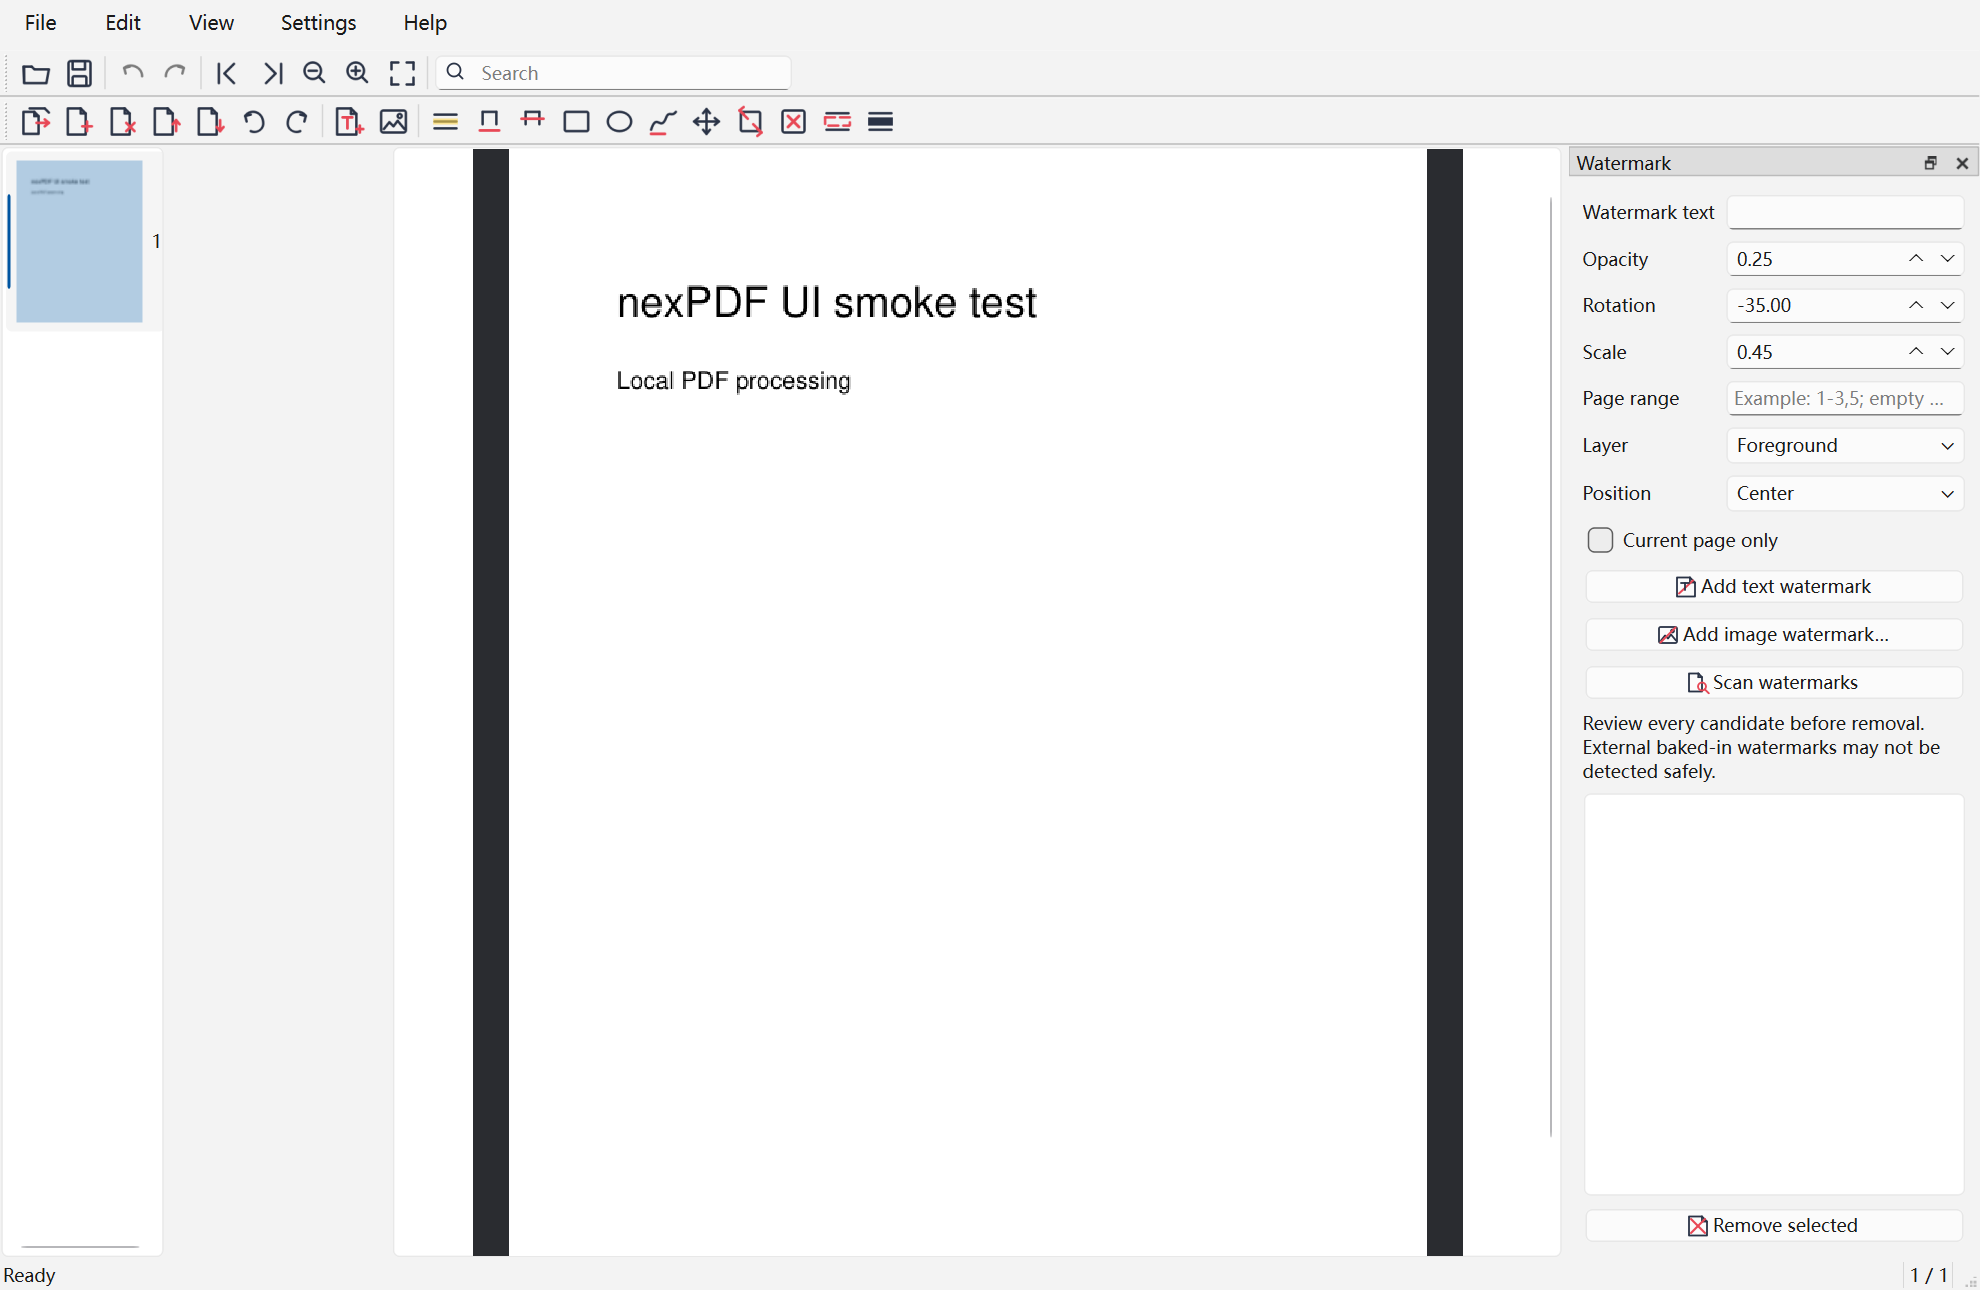
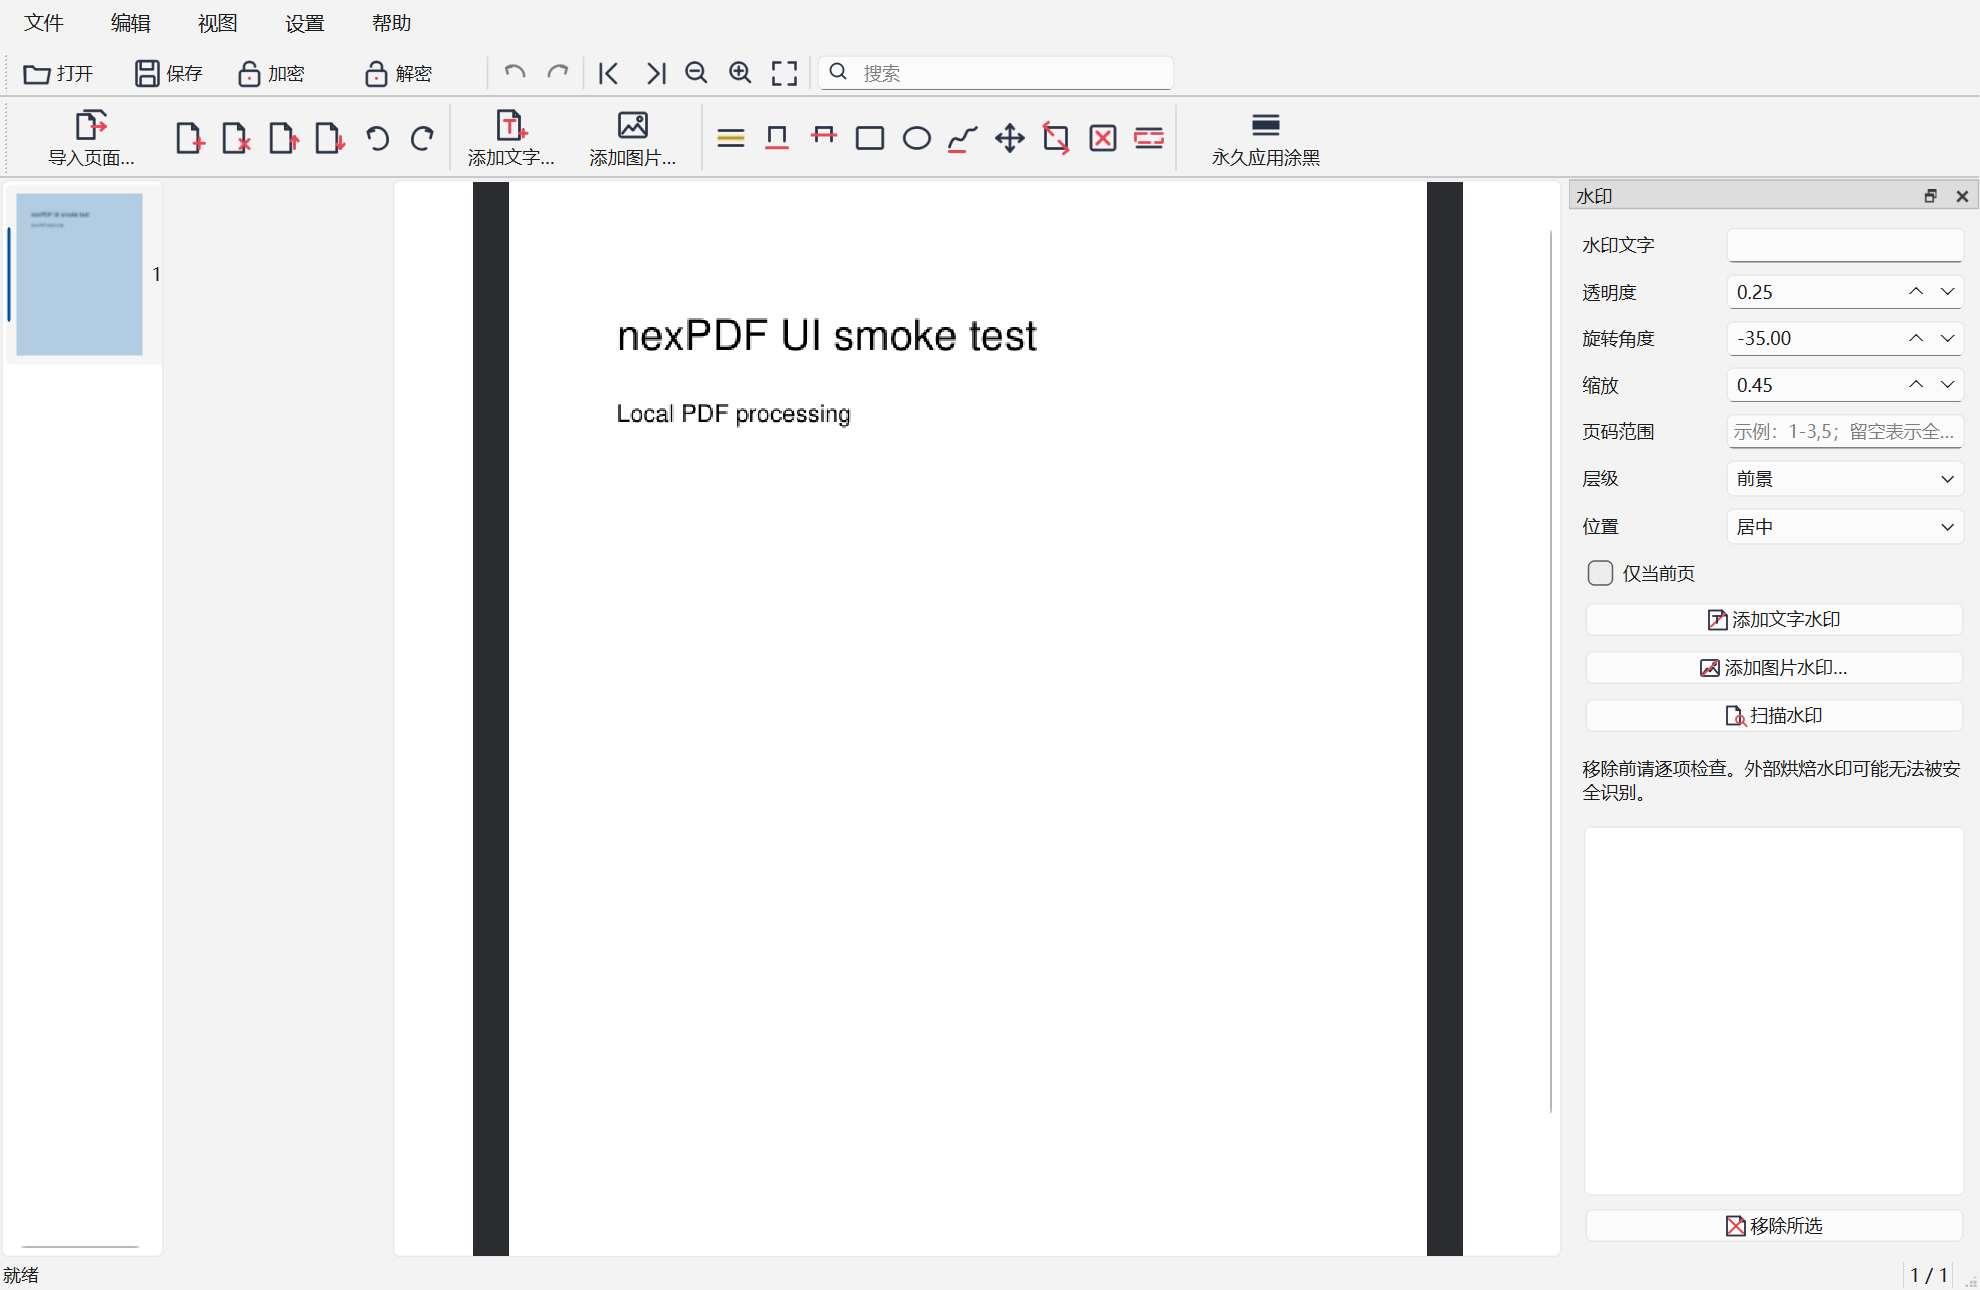
fix(ui): 调整为图标文字混合工具栏

diff --git a/app/main_window.cpp b/app/main_window.cpp
@@ -41,6 +41,7 @@
 #include <QSplitter>
 #include <QStatusBar>
 #include <QToolBar>
+#include <QToolButton>
 #include <QTimer>
 #include <QVBoxLayout>
 
@@ -540,7 +541,20 @@ void MainWindow::buildMenus()
     toolbar->setObjectName(QStringLiteral("mainToolbar"));
     toolbar->setIconSize(QSize(22, 22));
     toolbar->setToolButtonStyle(Qt::ToolButtonIconOnly);
-    toolbar->addActions({openAction_, saveAsAction_});
+    const auto addLabeledAction = [](QToolBar *target, QAction *action,
+                                     const QString &objectName, const Qt::ToolButtonStyle style) {
+        auto *button = new QToolButton(target);
+        button->setObjectName(objectName);
+        button->setDefaultAction(action);
+        button->setToolButtonStyle(style);
+        button->setAutoRaise(true);
+        target->addWidget(button);
+        return button;
+    };
+    addLabeledAction(toolbar, openAction_, QStringLiteral("openToolButton"), Qt::ToolButtonTextBesideIcon);
+    addLabeledAction(toolbar, saveAsAction_, QStringLiteral("saveAsToolButton"), Qt::ToolButtonTextBesideIcon);
+    addLabeledAction(toolbar, encryptAction_, QStringLiteral("encryptToolButton"), Qt::ToolButtonTextBesideIcon);
+    addLabeledAction(toolbar, decryptAction_, QStringLiteral("decryptToolButton"), Qt::ToolButtonTextBesideIcon);
     toolbar->addSeparator();
     toolbar->addActions({undoAction_, redoAction_});
     toolbar->addSeparator();
@@ -556,16 +570,24 @@ void MainWindow::buildMenus()
     addToolBarBreak(Qt::TopToolBarArea);
     auto *editToolbar = addToolBar(QStringLiteral("edit"));
     editToolbar->setObjectName(QStringLiteral("editToolbar"));
-    editToolbar->setIconSize(QSize(22, 22));
+    editToolbar->setIconSize(QSize(24, 24));
     editToolbar->setToolButtonStyle(Qt::ToolButtonIconOnly);
-    editToolbar->addActions({importPagesAction_, insertPageAction_, deletePageAction_,
-                             movePageUpAction_, movePageDownAction_, rotateLeftAction_, rotateRightAction_});
+    addLabeledAction(editToolbar, importPagesAction_, QStringLiteral("importPagesToolButton"),
+                     Qt::ToolButtonTextUnderIcon);
+    editToolbar->addActions({insertPageAction_, deletePageAction_, movePageUpAction_, movePageDownAction_,
+                             rotateLeftAction_, rotateRightAction_});
     editToolbar->addSeparator();
-    editToolbar->addActions({addTextAction_, addImageAction_});
+    addLabeledAction(editToolbar, addTextAction_, QStringLiteral("addTextToolButton"),
+                     Qt::ToolButtonTextUnderIcon);
+    addLabeledAction(editToolbar, addImageAction_, QStringLiteral("addImageToolButton"),
+                     Qt::ToolButtonTextUnderIcon);
     editToolbar->addSeparator();
     editToolbar->addActions({highlightAction_, underlineAction_, strikeOutAction_, rectangleAction_,
                              ellipseAction_, inkAction_, moveObjectAction_, resizeObjectAction_,
-                             deleteObjectAction_, redactionPreviewAction_, applyRedactionsAction_});
+                             deleteObjectAction_, redactionPreviewAction_});
+    editToolbar->addSeparator();
+    addLabeledAction(editToolbar, applyRedactionsAction_, QStringLiteral("applyRedactionsToolButton"),
+                     Qt::ToolButtonTextUnderIcon);
 
     retranslateUi();
 }
@@ -720,6 +742,20 @@ void MainWindow::retranslateUi()
     }
     if (QToolBar *toolbar = findChild<QToolBar *>(QStringLiteral("editToolbar"))) {
         toolbar->setWindowTitle(tr("Edit toolbar"));
+    }
+    const QList<QPair<QString, QString>> compactLabels = {
+        {QStringLiteral("openToolButton"), tr("Open")},
+        {QStringLiteral("saveAsToolButton"), tr("Save")},
+        {QStringLiteral("encryptToolButton"), tr("Encrypt")},
+        {QStringLiteral("decryptToolButton"), tr("Decrypt")}
+    };
+    for (const auto &[objectName, label] : compactLabels) {
+        if (QToolButton *button = findChild<QToolButton *>(objectName)) button->setText(label);
+    }
+    if (statusLabel_ != nullptr
+        && (statusLabel_->text() == QStringLiteral("Ready")
+            || statusLabel_->text() == QStringLiteral("就绪"))) {
+        statusLabel_->setText(tr("Ready"));
     }
     if (watermarkDock_ != nullptr) {
         watermarkDock_->setWindowTitle(tr("Watermark"));

diff --git a/tests/test_main_window.cpp b/tests/test_main_window.cpp
@@ -5,10 +5,12 @@
 #include <QDir>
 #include <QFile>
 #include <QLabel>
+#include <QMenu>
 #include <QPushButton>
 #include <QSettings>
 #include <QTemporaryDir>
 #include <QToolBar>
+#include <QToolButton>
 #include <QWidgetAction>
 #include <QtTest>
 
@@ -90,6 +92,25 @@ void MainWindowTests::opensFixtureAndCapturesUi()
             QVERIFY2(!action->toolTip().isEmpty(), qPrintable(action->text()));
         }
     }
+    const QList<QPair<QString, Qt::ToolButtonStyle>> labeledTools = {
+        {QStringLiteral("openToolButton"), Qt::ToolButtonTextBesideIcon},
+        {QStringLiteral("saveAsToolButton"), Qt::ToolButtonTextBesideIcon},
+        {QStringLiteral("encryptToolButton"), Qt::ToolButtonTextBesideIcon},
+        {QStringLiteral("decryptToolButton"), Qt::ToolButtonTextBesideIcon},
+        {QStringLiteral("importPagesToolButton"), Qt::ToolButtonTextUnderIcon},
+        {QStringLiteral("addTextToolButton"), Qt::ToolButtonTextUnderIcon},
+        {QStringLiteral("addImageToolButton"), Qt::ToolButtonTextUnderIcon},
+        {QStringLiteral("applyRedactionsToolButton"), Qt::ToolButtonTextUnderIcon}
+    };
+    for (const auto &[name, style] : labeledTools) {
+        auto *button = window.findChild<QToolButton *>(name);
+        QVERIFY2(button != nullptr, qPrintable(name));
+        QCOMPARE(button->toolButtonStyle(), style);
+        QVERIFY(button->defaultAction() != nullptr);
+        QVERIFY(!button->text().isEmpty());
+        QVERIFY(!button->icon().isNull());
+        QVERIFY(!button->toolTip().isEmpty());
+    }
     for (const QString &name : {QStringLiteral("addTextWatermarkButton"),
                                 QStringLiteral("addImageWatermarkButton"),
                                 QStringLiteral("scanWatermarkButton"),
@@ -109,13 +130,32 @@ void MainWindowTests::opensFixtureAndCapturesUi()
     QTRY_VERIFY_WITH_TIMEOUT(canvas->hasRenderedContent(), 10000);
     QTest::qWait(500);
 
-    const QPixmap screenshot = window.grab();
-    QVERIFY(!screenshot.isNull());
-    QCOMPARE(screenshot.deviceIndependentSize(), QSizeF(window.size()));
+    const QPixmap englishScreenshot = window.grab();
+    QVERIFY(!englishScreenshot.isNull());
+    QCOMPARE(englishScreenshot.deviceIndependentSize(), QSizeF(window.size()));
     const QString output = qEnvironmentVariable("NEXPDF_TEST_OUTPUT_DIR");
     if (!output.isEmpty()) {
         QVERIFY(QDir().mkpath(output));
-        QVERIFY(screenshot.save(output + QStringLiteral("/ui-main-window.png")));
+        QVERIFY(englishScreenshot.save(output + QStringLiteral("/ui-main-window-en.png")));
+    }
+
+    QAction *chineseAction = nullptr;
+    for (QAction *action : window.findChildren<QAction *>()) {
+        if (action->text() == QStringLiteral("简体中文")) {
+            chineseAction = action;
+            break;
+        }
+    }
+    QVERIFY(chineseAction != nullptr);
+    chineseAction->trigger();
+    auto *fileMenu = window.findChild<QMenu *>(QStringLiteral("fileMenu"));
+    QVERIFY(fileMenu != nullptr);
+    QTRY_COMPARE(fileMenu->title(), QStringLiteral("文件"));
+    const QPixmap chineseScreenshot = window.grab();
+    QVERIFY(!chineseScreenshot.isNull());
+    QCOMPARE(chineseScreenshot.deviceIndependentSize(), QSizeF(window.size()));
+    if (!output.isEmpty()) {
+        QVERIFY(chineseScreenshot.save(output + QStringLiteral("/ui-main-window.png")));
     }
 }
 

diff --git a/app/app_translator.cpp b/app/app_translator.cpp
@@ -6,6 +6,7 @@ AppTranslator::AppTranslator(QObject *parent) : QTranslator(parent)
 {
     const std::pair<const char *, const char *> entries[] = {
         {"File", "文件"}, {"Open…", "打开…"}, {"Save As…", "另存为…"},
+        {"Open", "打开"}, {"Save", "保存"}, {"Encrypt", "加密"}, {"Decrypt", "解密"},
         {"Create encrypted copy…", "创建加密副本…"}, {"Create decrypted copy…", "创建解密副本…"},
         {"Close", "关闭"}, {"Exit", "退出"}, {"Edit", "编辑"}, {"Undo", "撤销"},
         {"Redo", "重做"}, {"Insert blank page", "插入空白页"}, {"Delete page", "删除页面"},

diff --git a/CHANGELOG.md b/CHANGELOG.md
@@ -5,7 +5,8 @@ All notable changes follow Semantic Versioning. / 重要变更遵循语义化版
 ## [Unreleased]
 
 - Initial C++20/Qt/MuPDF architecture and public domain types.
-- Cohesive icon-only view/edit toolbars, bilingual tooltips, and native application icons for Windows, Linux, and macOS.
+- Cohesive view/edit icon set, bilingual tooltips, and native application icons for Windows, Linux, and macOS.
+- Hybrid command bars keep familiar controls icon-only while adding short labels to primary and high-risk operations.
 - Background document session, password opening, rendering, search, practical edits, MuPDF journal undo/redo, permanent redaction, encryption/decryption, and validated atomic save.
 - Continuous Qt canvas, bilingual runtime translation, watermark creation/scanning/confirmed removal, and initial integration tests.
 - Slim MuPDF Windows build tooling and three-platform release scaffolding in progress.
